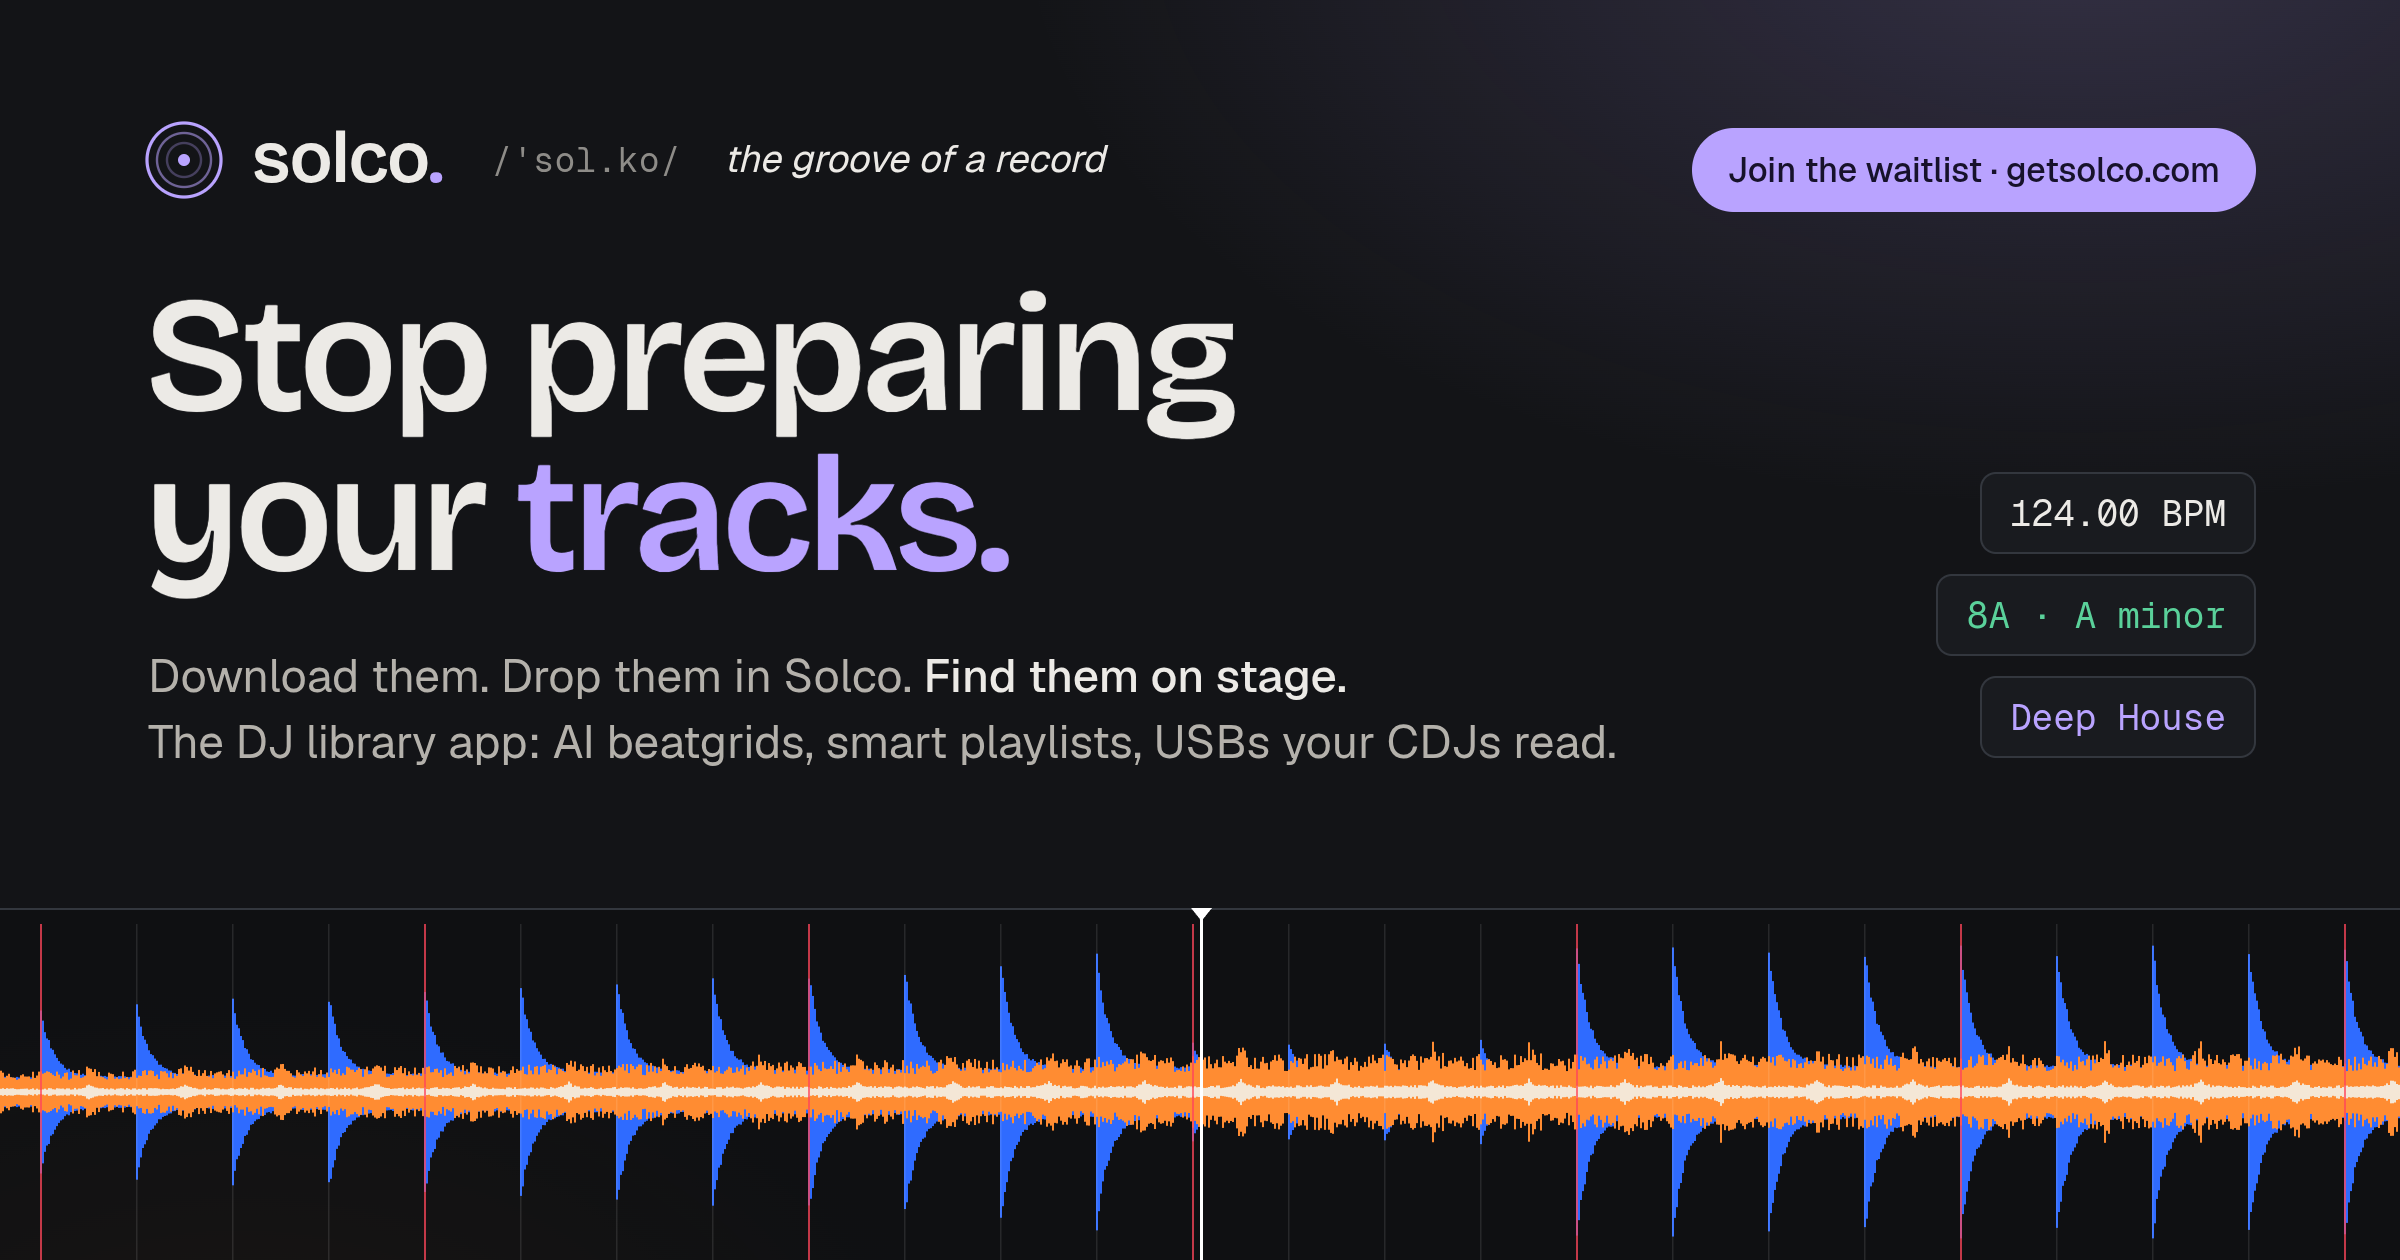
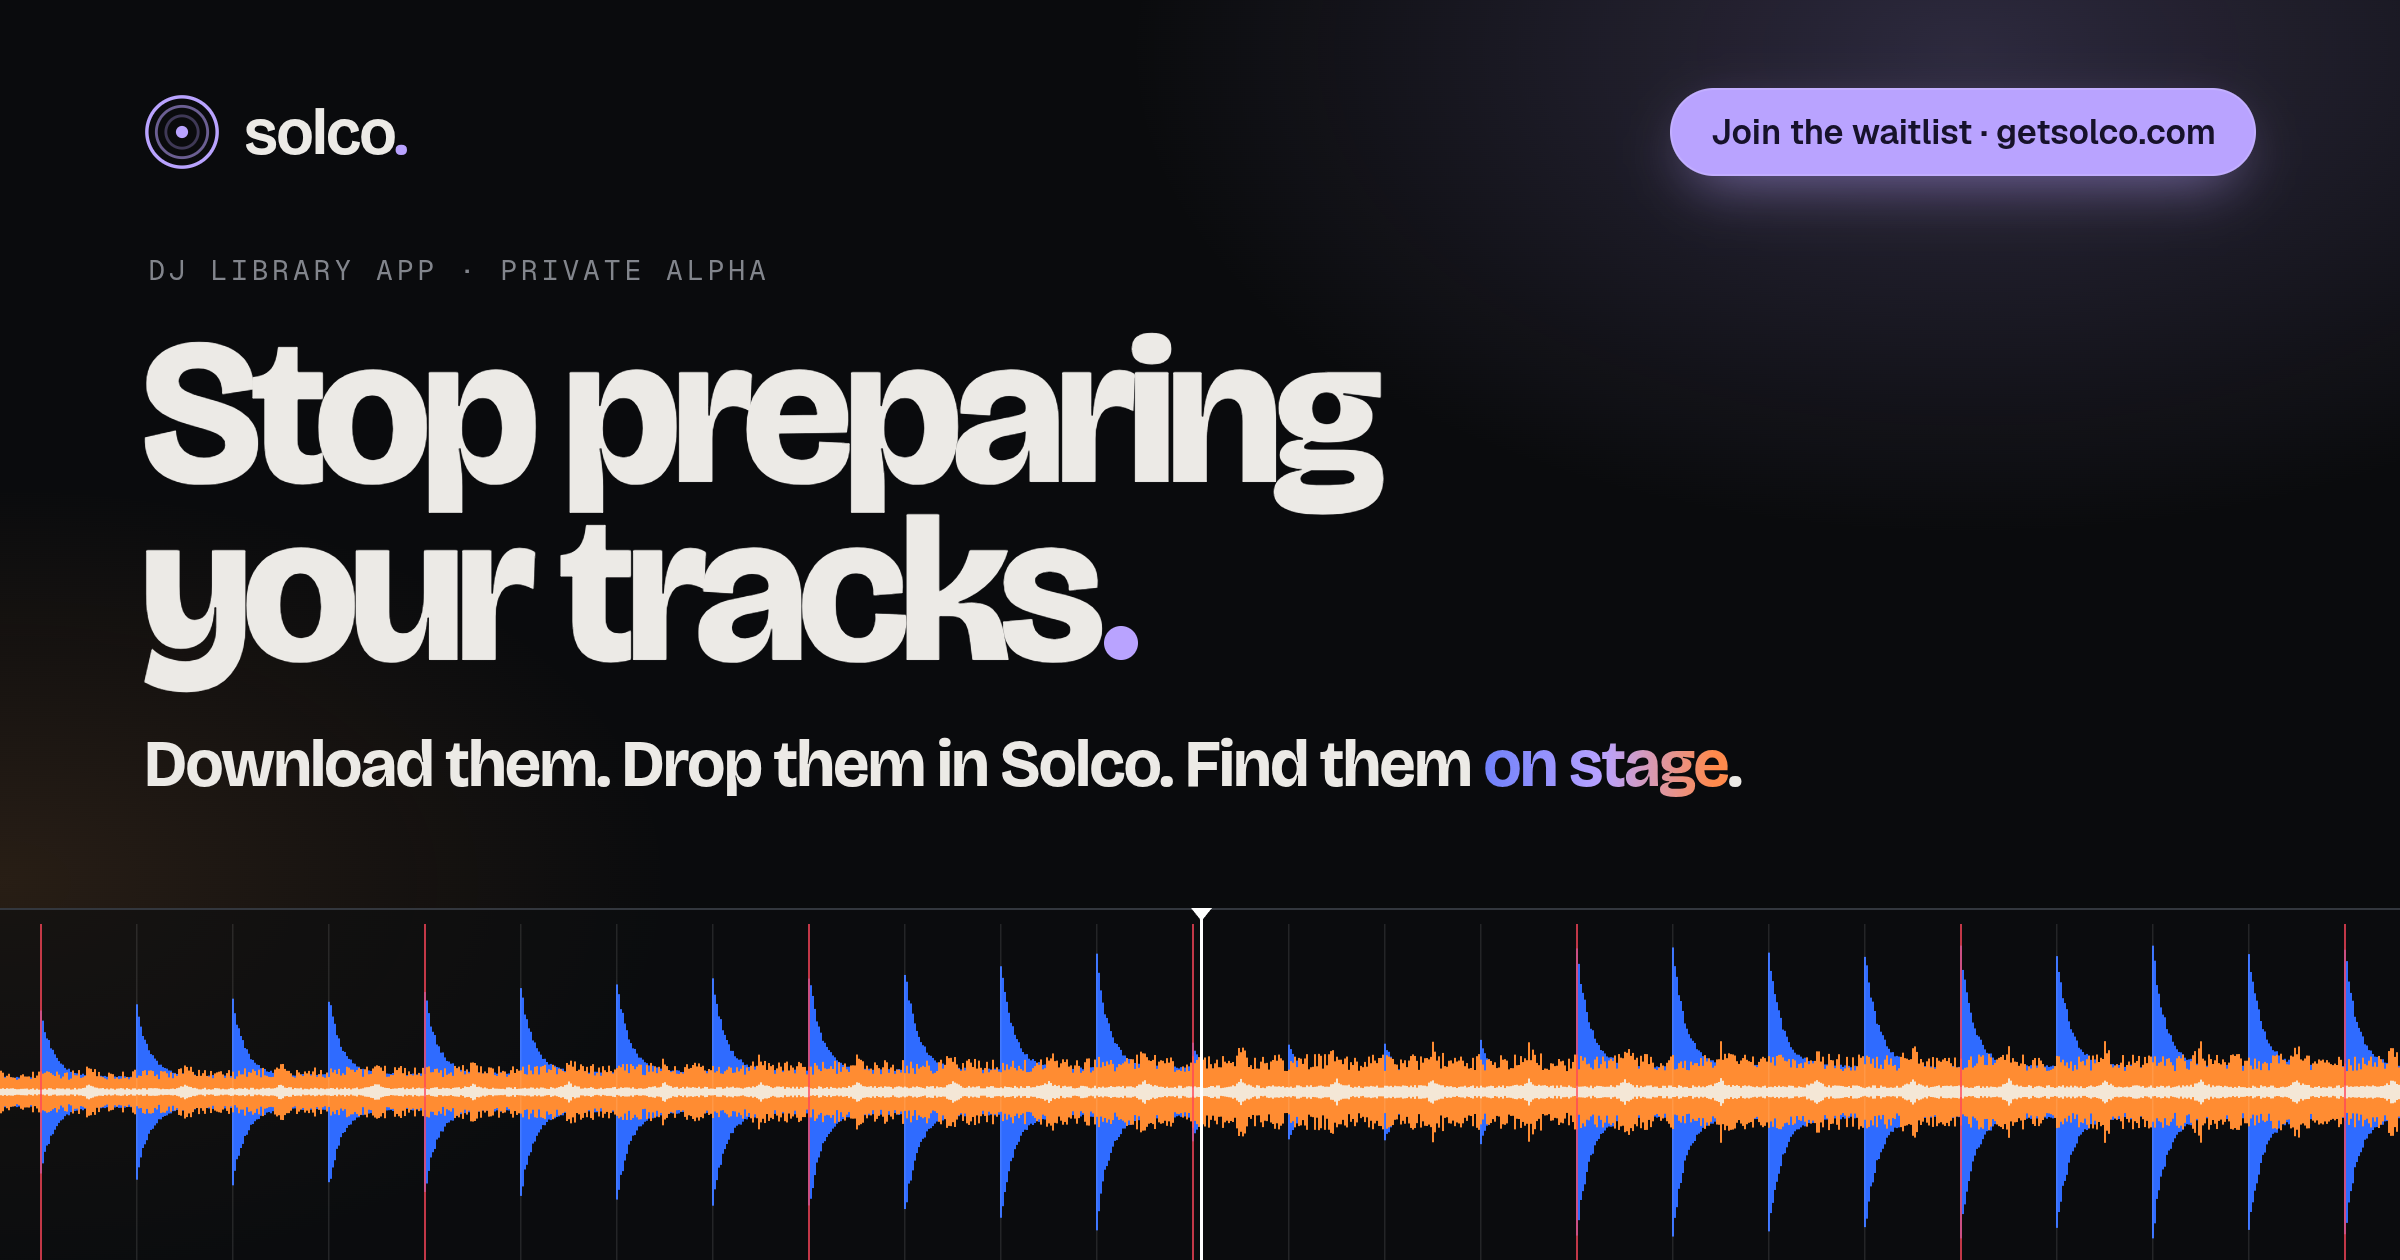
Share image is the hero in miniature: same type, colours, glow and header

diff --git a/og/og.html b/og/og.html
@@ -4,66 +4,43 @@
 <meta charset="utf-8">
 <title>Solco OG image</title>
 <style>
-  @font-face { font-family: Bricolage; src: url(BricolageGrotesque-SemiBold.ttf); }
-  @font-face { font-family: Geist; src: url(Geist-Regular.ttf); }
-  @font-face { font-family: Geist; font-weight: 500; src: url(Geist-Medium.ttf); }
-  @font-face { font-family: GeistMono; src: url(GeistMono-Regular.ttf); }
-  :root { --panel: #131417; --line: #33373e; --text: #eceae6; --dim: #8e8c88; --accent: #b9a3ff; --on-accent: #17122b; }
+  /* The hero in miniature: the site's own fonts, colours, glow and type. */
+  @font-face { font-family: "Bricolage Grotesque"; src: url(../site/assets/fonts/BricolageGrotesque.woff2) format("woff2"); font-weight: 200 800; }
+  @font-face { font-family: Geist; src: url(../site/assets/fonts/Geist-Regular.woff2) format("woff2"); font-weight: 400; }
+  @font-face { font-family: Geist; src: url(../site/assets/fonts/Geist-SemiBold.woff2) format("woff2"); font-weight: 600; }
+  @font-face { font-family: "Geist Mono"; src: url(../site/assets/fonts/GeistMono-Regular.woff2) format("woff2"); }
+  :root { --bg: #0a0b0d; --ink: #eceae6; --ink-3: #82858c; --line: #1d2025; --violet: #b9a3ff; --violet-ink: #17122b;
+          --c-blue: #6f81fa; --c-violet: #b9a3ff; --c-orange: #ff8a4c; }
   * { box-sizing: border-box; margin: 0; }
-  html, body { width: 1200px; height: 630px; background: var(--panel); overflow: hidden; }
-  body {
-    position: relative; color: var(--text); font-family: Geist, sans-serif;
-    background:
-      radial-gradient(760px 420px at 1040px -40px, rgba(185, 163, 255, 0.20), transparent 70%),
-      radial-gradient(520px 300px at 120px 700px, rgba(255, 140, 50, 0.10), transparent 70%),
-      var(--panel);
-  }
-  .top { position: absolute; left: 72px; right: 72px; top: 58px; display: flex; align-items: center; justify-content: space-between; }
-  .mark { display: flex; align-items: center; gap: 14px; }
-  .mark svg { width: 40px; height: 40px; }
-  .wordmark { font-family: Bricolage; font-size: 36px; letter-spacing: -0.02em; }
-  .wordmark b { color: var(--accent); font-weight: inherit; }
-  .say { font-family: GeistMono; font-size: 17px; color: var(--dim); letter-spacing: 0.02em; }
-  .say i { color: var(--text); font-style: italic; font-family: Geist; font-size: 19px; letter-spacing: 0; }
-  h1 { position: absolute; left: 72px; top: 138px; font-family: Bricolage; font-weight: 400; font-size: 82px; line-height: 0.98; letter-spacing: -0.035em; }
-  h1 em { font-style: normal; color: var(--accent); }
-  .sub { position: absolute; left: 74px; top: 322px; width: 880px; font-size: 23px; line-height: 1.42; color: #b4b1ab; }
-  .sub b { color: var(--text); font-weight: 500; }
-  .deck { position: absolute; left: 0; right: 0; bottom: 0; height: 176px; border-top: 1px solid var(--line); background: rgba(12, 13, 15, 0.6); }
+  html, body { width: 1200px; height: 630px; overflow: hidden; }
+  body { position: relative; color: var(--ink); font-family: Geist, sans-serif; -webkit-font-smoothing: antialiased;
+    background: radial-gradient(50% 55% at 82% 4%, rgba(185,163,255,.20), transparent 70%),
+                radial-gradient(40% 45% at 0% 70%, rgba(240,154,76,.13), transparent 70%), var(--bg); }
+  .top { position: absolute; left: 72px; right: 72px; top: 44px; display: flex; align-items: center; justify-content: space-between; }
+  .brand { display: flex; align-items: center; gap: 12px; font-family: "Bricolage Grotesque"; font-weight: 650; font-size: 32px; letter-spacing: -.035em; font-variation-settings: "opsz" 40; }
+  .brand svg { width: 38px; height: 38px; color: var(--violet); }
+  .brand b { color: var(--violet); font-weight: inherit; }
+  .cta { font-size: 17px; font-weight: 600; padding: 11px 20px; border-radius: 999px; background: var(--violet); color: var(--violet-ink);
+    box-shadow: 0 0 0 1px rgba(255,255,255,.12) inset, 0 10px 30px -10px rgba(185,163,255,.7); }
+  .kicker { position: absolute; left: 74px; top: 126px; font-family: "Geist Mono"; font-size: 14px; letter-spacing: .14em; text-transform: uppercase; color: var(--ink-3); }
+  h1 { position: absolute; left: 70px; top: 162px; font-family: "Bricolage Grotesque"; font-weight: 800; font-size: 104px; line-height: .86; letter-spacing: -.05em; font-variation-settings: "opsz" 96; }
+  h1 span { display: block; }
+  .dot { display: inline-block; width: .17em; height: .17em; border-radius: 50%; background: var(--violet); margin-left: .04em; }
+  .steps { position: absolute; left: 72px; top: 362px; font-family: "Bricolage Grotesque"; font-weight: 700; font-size: 33px; letter-spacing: -.03em; font-variation-settings: "opsz" 60; }
+  .steps .scale { background: linear-gradient(90deg, var(--c-blue), var(--c-violet) 48%, var(--c-orange) 92%); -webkit-background-clip: text; background-clip: text; color: transparent; padding-right: .09em; margin-right: -.09em; }
+  .deck { position: absolute; left: 0; right: 0; bottom: 0; height: 176px; border-top: 1px solid #33373e; background: rgba(12, 13, 15, 0.6); }
   canvas { position: absolute; left: 0; bottom: 0; width: 1200px; height: 176px; }
-  .readouts { position: absolute; right: 72px; top: 236px; display: flex; flex-direction: column; align-items: flex-end; gap: 10px; }
-  .chip { font-family: GeistMono; font-size: 18px; padding: 8px 14px; border: 1px solid var(--line); border-radius: 8px; background: rgba(26, 28, 32, 0.9); color: var(--text); }
-  .chip.key { color: #5ad19a; }
-  .chip.genre { color: var(--accent); }
-  .cta { position: absolute; right: 72px; top: 64px; font-size: 17px; font-weight: 500; padding: 10px 18px; border-radius: 999px; background: var(--accent); color: var(--on-accent); }
 </style>
 </head>
 <body>
   <div class="top">
-    <div class="mark">
-      <svg viewBox="0 0 40 40" fill="none" aria-hidden="true">
-        <circle cx="20" cy="20" r="18.5" stroke="#b9a3ff" stroke-width="1.6"/>
-        <circle cx="20" cy="20" r="13.5" stroke="#b9a3ff" stroke-opacity="0.55" stroke-width="1.2"/>
-        <circle cx="20" cy="20" r="8.5" stroke="#b9a3ff" stroke-opacity="0.3" stroke-width="1.2"/>
-        <circle cx="20" cy="20" r="3" fill="#b9a3ff"/>
-      </svg>
-      <span class="wordmark">solco<b>.</b></span>
-      <span class="say">&nbsp;/ˈsol.ko/&nbsp; <i>the groove of a record</i></span>
-    </div>
+    <div class="brand"><svg viewBox="0 0 40 40" fill="none" stroke="currentColor" aria-hidden="true"><circle cx="20" cy="20" r="18.5" stroke-width="1.8"/><circle cx="20" cy="20" r="13.5" stroke-opacity=".55" stroke-width="1.5"/><circle cx="20" cy="20" r="8.5" stroke-opacity=".3" stroke-width="1.5"/><circle cx="20" cy="20" r="3.2" fill="currentColor" stroke="none"/></svg><span>solco<b>.</b></span></div>
+    <div class="cta">Join the waitlist · getsolco.com</div>
   </div>
-  <div class="cta">Join the waitlist · getsolco.com</div>
-
-  <h1>Stop preparing<br>your <em>tracks.</em></h1>
-  <p class="sub">Download them. Drop them in Solco. <b>Find them on stage.</b><br>The DJ library app: AI beatgrids, smart playlists, USBs your CDJs read.</p>
-
-  <div class="readouts">
-    <span class="chip">124.00 BPM</span>
-    <span class="chip key">8A · A minor</span>
-    <span class="chip genre">Deep House</span>
-  </div>
-
+  <p class="kicker">DJ library app · Private alpha</p>
+  <h1><span>Stop preparing</span><span>your tracks<i class="dot"></i></span></h1>
+  <p class="steps">Download them. Drop them in Solco. Find them <span class="scale">on stage</span>.</p>
   <div class="deck"><canvas id="wave" width="2400" height="352"></canvas></div>
-
 <script>
   // A deterministic four-on-the-floor waveform in the app's colours:
   // blue lows, orange mids, a warm white core, with the beatgrid on top.

diff --git a/site/index.html b/site/index.html
@@ -18,14 +18,14 @@
 <meta property="og:url" content="https://getsolco.com/">
 <meta property="og:title" content="Solco: stop preparing your tracks.">
 <meta property="og:description" content="The DJ library app that grids, keys, sorts and tags every download, then writes the USB your CDJs read. No rekordbox needed.">
-<meta property="og:image" content="https://getsolco.com/og.png">
+<meta property="og:image" content="https://getsolco.com/og.png?v=3">
 <meta property="og:image:width" content="1200">
 <meta property="og:image:height" content="630">
 <meta property="og:image:alt" content="Solco. Stop preparing your tracks. Download them, drop them in Solco, find them on stage. A blue and orange waveform with its beatgrid, 124.00 BPM, 8A A minor, Deep House.">
 <meta name="twitter:card" content="summary_large_image">
 <meta name="twitter:title" content="Solco: stop preparing your tracks.">
 <meta name="twitter:description" content="The DJ library app that grids, keys, sorts and tags every download, then writes the USB your CDJs read. No rekordbox needed.">
-<meta name="twitter:image" content="https://getsolco.com/og.png">
+<meta name="twitter:image" content="https://getsolco.com/og.png?v=3">
 <link rel="preload" href="assets/fonts/BricolageGrotesque.woff2" as="font" type="font/woff2" crossorigin>
 <link rel="preload" href="assets/fonts/Geist-Regular.woff2" as="font" type="font/woff2" crossorigin>
 <link rel="stylesheet" href="assets/css/site.css">
